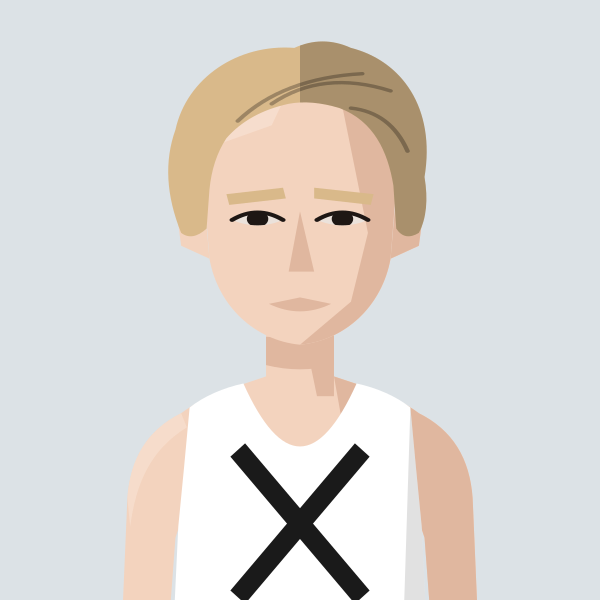
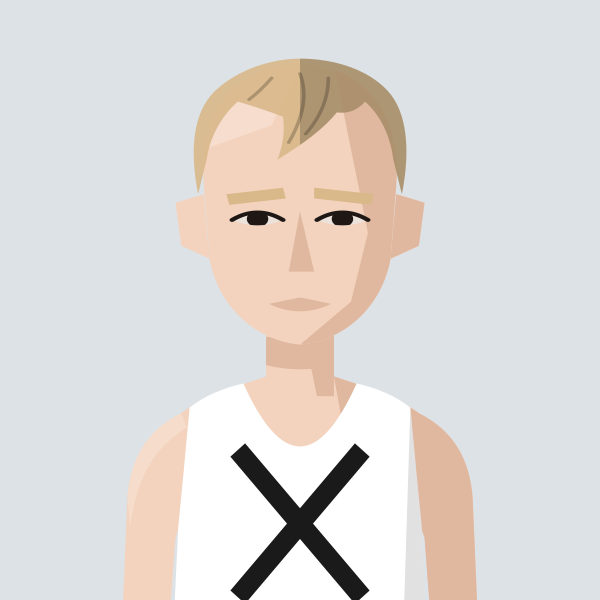
Thomas Renshaw: floppy, receding hair (new floppyrecede style)
Claude-Session: https://claude.ai/code/session_01MgmDWhFqnSSnP4iBLKXUZC

Changed region(s): [[0.27, 0.06, 0.72, 0.39]]

diff --git a/files/index.html b/files/index.html
@@ -594,7 +594,7 @@ return m;})();
 const portraitFile=(name,club)=>{const k=normalizeNameForCompare(name||'').replace(/\s*\(([^)]*)\)$/,(m,c)=>CLUBS[c.toUpperCase()]?'':m);const a=PORTRAITS[k];if(a&&a.club===club)return a.file;const b=PORTRAITS[k+'@'+club];return b?b.file:null;};
 // Athlete header figure: superstar portrait if we have one, else a grey runner in the club vest, else the plain vest icon
 // Changes whenever any portrait changes (set by tools/build_og.py), so browsers fetch fresh images instead of old cached ones
-const PORTRAIT_V='6eb6860e';
+const PORTRAIT_V='1f4e77a0';
 const AthletePortrait=({name,club,w,fill,onClick})=>{const[failed,setFailed]=useState(false);const file=portraitFile(name,club);const src=file?`/portraits/athletes/${file}.svg?v=${PORTRAIT_V}`:PORTRAIT_CLUBS.has(club)?`/portraits/clubs/${club.replace(/\//g,'').replace(/&/g,'and')}.svg?v=${PORTRAIT_V}`:null;if(!src||failed)return<div onClick={onClick} className={onClick?'cursor-pointer':''}><ClubShield club={club} size={w}/></div>;const h=Math.round(w*148/126),ih=Math.round(w*1.4);if(fill)return<div onClick={onClick} className="cursor-pointer" style={{alignSelf:'stretch',minHeight:h,aspectRatio:'126 / 148',flexShrink:0,position:'relative',borderRadius:4,overflow:'hidden'}}><img src={src} alt={file?`Portrait of ${name.replace(/\s*\([^)]*\)$/,'')}`:`Runner in ${CLUBS[club]?.name||club} vest`} style={{position:'absolute',top:0,left:0,display:'block',width:'100%',height:'auto'}} onError={()=>setFailed(true)}/></div>;return<div style={{width:w,height:h,borderRadius:4,overflow:'hidden',flexShrink:0}}><img src={src} alt={file?`Portrait of ${name.replace(/\s*\([^)]*\)$/,'')}`:`Runner in ${CLUBS[club]?.name||club} vest`} width={w} height={ih} style={{display:'block',width:w,height:ih}} onError={()=>setFailed(true)}/></div>;};
 const getClubVestSvg=(club)=>{
   const p="M3 0 L6 0 Q7 4 10 5 Q13 4 14 0 L17 0 L17 20 L3 20 Z";

diff --git a/tools/gen_portraits.py b/tools/gen_portraits.py
@@ -132,6 +132,7 @@ HAIR["wavyback"] = '<path d="M64,108 C60,58 80,38 100,38 C121,38 140,58 136,108 
 HAIR_BACK["wavyback"] = '<path d="M60,90 C58,54 80,36 100,36 C120,36 142,54 140,90 Q148,104 142,118 Q150,132 140,146 Q144,158 132,160 L68,160 Q56,158 60,146 Q50,132 58,118 Q52,104 60,90 Z"/>'
 HAIR["tightbun"] = HAIR["slick"]
 HAIR["shaggyhorseshoe"] = '<path d="M66,104 L60,98 L62,90 L56,84 L61,78 L59,70 L66,63 L74,61 L78,67 Q72,80 71,104 Z"/><path d="M134,104 L140,98 L138,90 L144,84 L139,78 L141,70 L134,63 L126,61 L122,67 Q128,80 129,104 Z"/><path d="M88,46 Q94,41 101,43 Q108,40 113,45 Q106,44 100,46 Q94,45 88,46 Z" opacity=".55"/>'
+HAIR["floppyrecede"] = '<path d="M64,100 C61,80 62,62 70,52 C78,42 90,37 100,37 C112,37 124,42 131,52 C138,62 139,80 136,100 L133,84 C132,74 129,64 123,57 Q119,63 113,62 Q107,72 92,84 Q95,74 94,64 Q86,60 78,57 C72,64 68,74 67,84 Z" opacity=".92"/><g fill="none" stroke="#000" stroke-opacity=".22" stroke-width="1.3" stroke-linecap="round"><path d="M100,44 Q104,58 96,76"/><path d="M110,46 Q110,60 102,72"/><path d="M90,46 Q86,52 82,56"/></g>'
 HAIR["seventies"] = '<path d="M64,104 Q56,100 58,90 Q52,80 58,70 Q56,56 68,50 Q68,30 84,28 Q92,18 103,22 Q115,16 124,26 Q137,32 140,46 Q151,53 146,66 Q152,78 144,88 Q146,100 136,104 L133,92 C131,82 126,74 118,70 Q110,75 100,72 Q88,77 80,70 Q72,76 68,86 Z"/><g fill="none" stroke="#000" stroke-opacity=".25" stroke-width="1.4" stroke-linecap="round"><path d="M72,50 Q88,40 108,44"/><path d="M114,46 Q130,52 138,68"/></g>'
 HAIR_BACK["seventies"] = '<path d="M62,82 Q52,88 55,100 Q48,110 54,120 Q48,130 56,138 Q54,148 64,150 Q72,154 78,148 L86,146 L86,130 L114,130 L114,146 L122,148 Q128,154 136,150 Q146,148 144,138 Q152,130 146,120 Q152,110 145,100 Q148,88 138,82 Z"/>'
 HAIR["longflow"] = HAIR["longstraight"]
@@ -705,7 +706,7 @@ W433 += [
  ("tom-thornley","HOL","Tom Thornley",dict(skin=1,hair="sweptback",hair_colour="#8E6643"),"swept-back light brown hair"),
 ]
 W433 += [
- ("thomas-renshaw","THH","Thomas Renshaw",dict(skin=1,hair="sweptback",hair_colour="#D9B98A"),"swept-back strawberry-blond hair"),
+ ("thomas-renshaw","THH","Thomas Renshaw",dict(skin=1,hair="floppyrecede",hair_colour="#D9B98A"),"floppy, thinning strawberry-blond hair"),
  ("amittai-ben-israel","THH","Amittai Ben-Israel",dict(skin=1,hair="crop",hair_colour="#5A3E2B",gaunt=True),"short brown hair"),
 ]
 for slug, club, name, kw, alt in W433:
